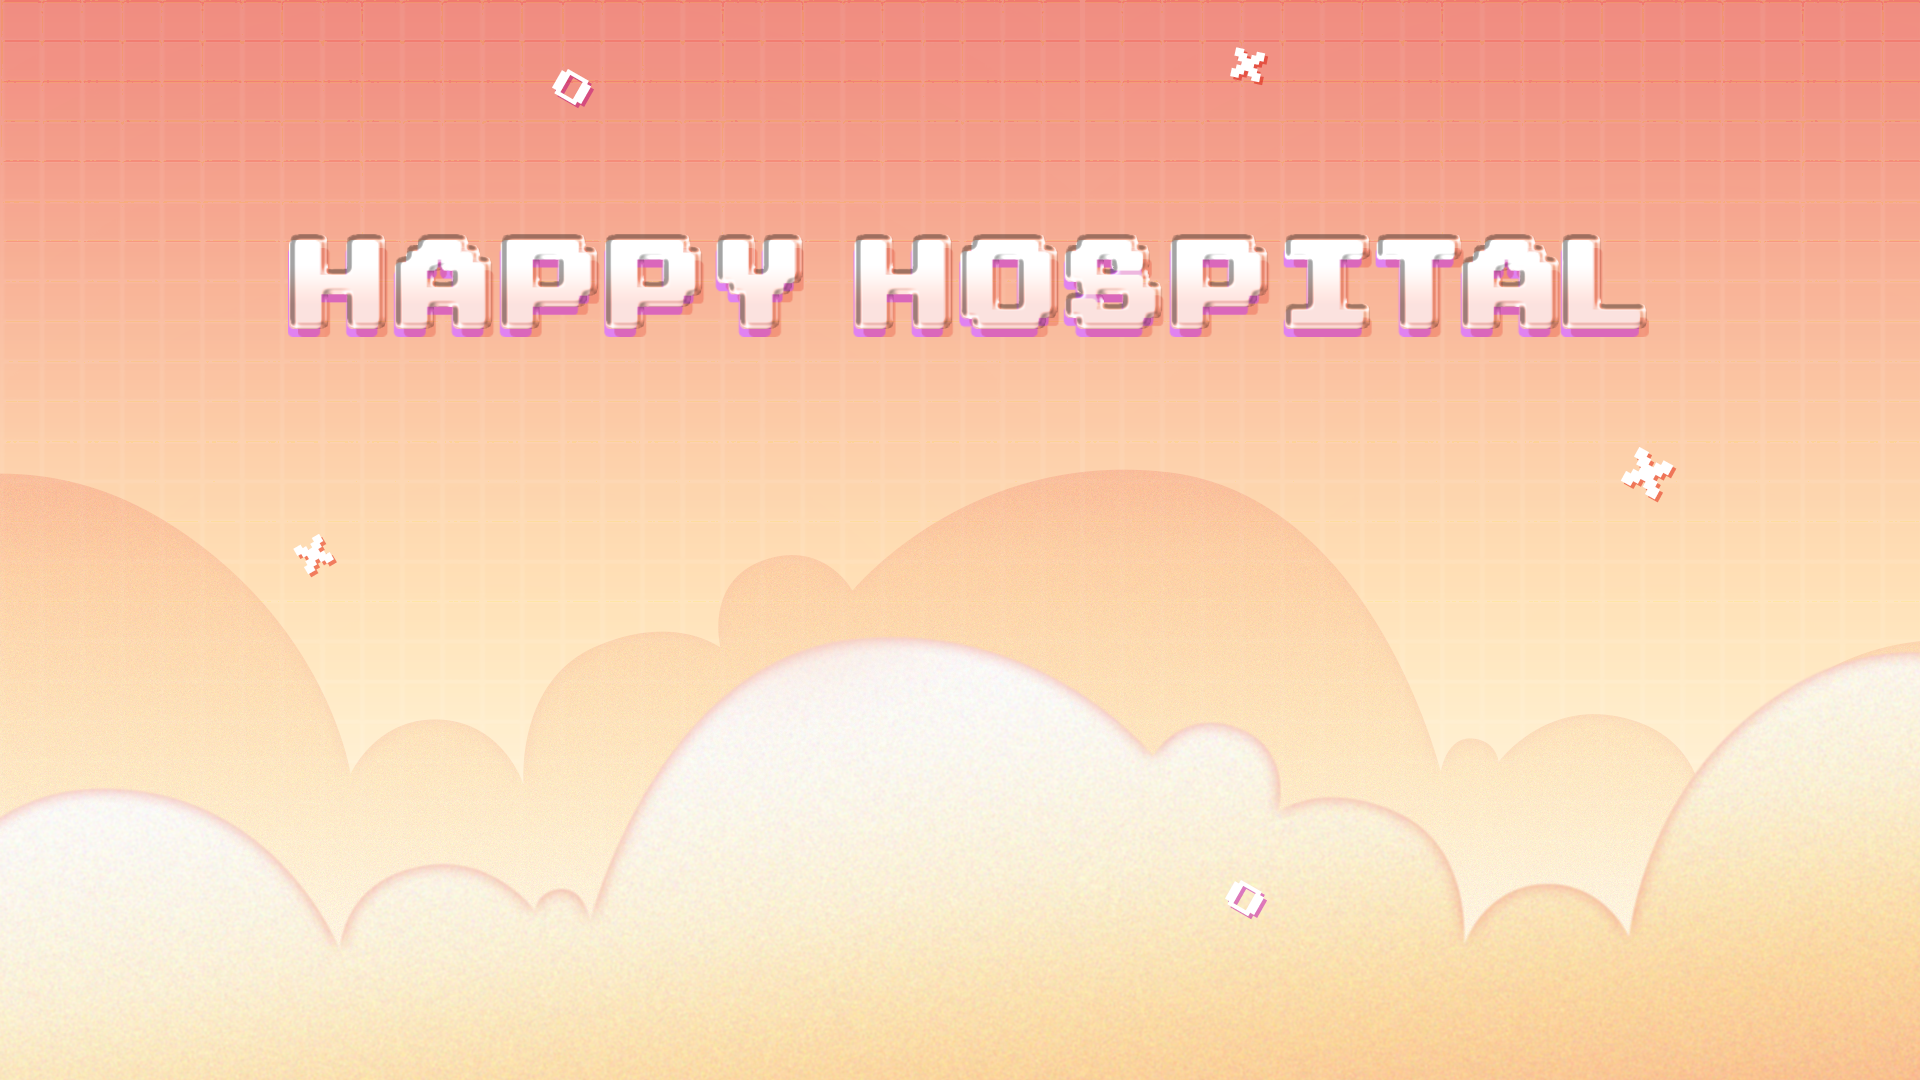
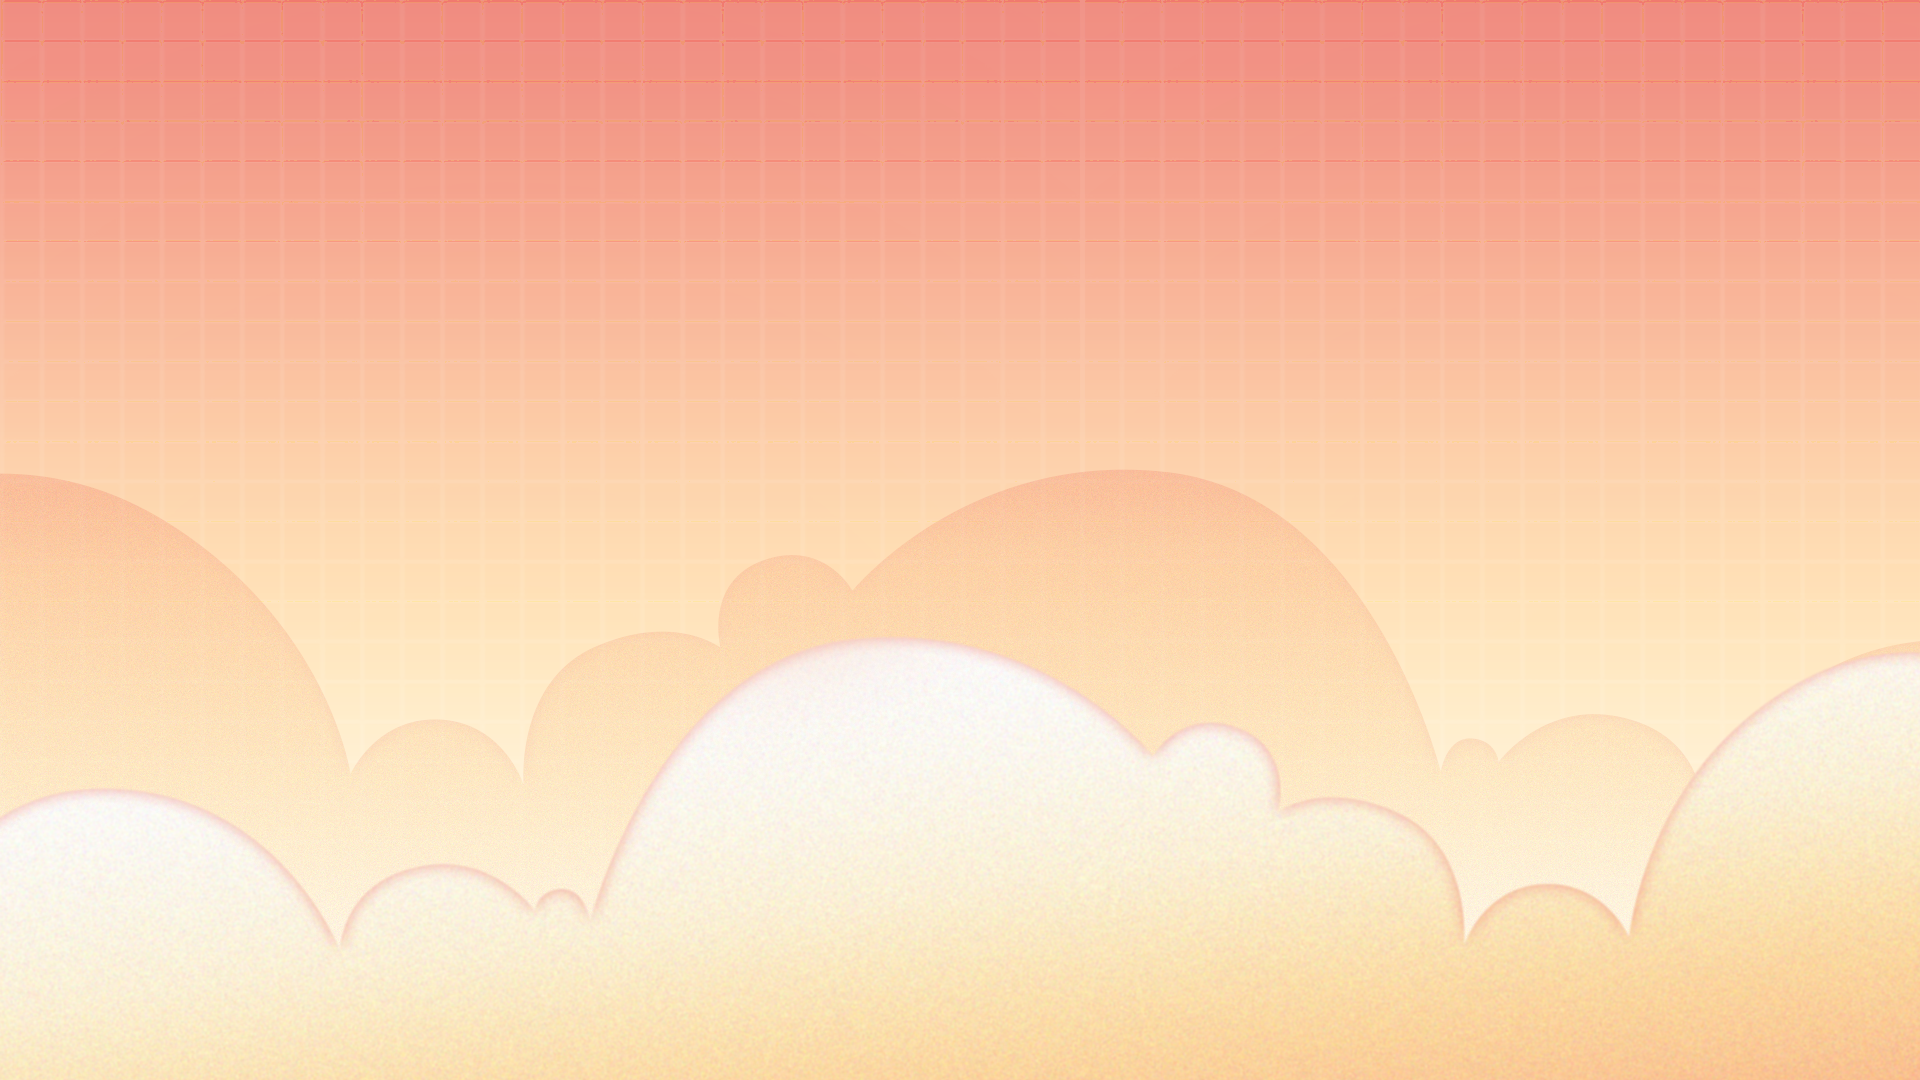
push

diff --git a/GetGo/src/scene/LoadGameScene.java b/GetGo/src/scene/LoadGameScene.java
@@ -1,0 +1,90 @@
+package scene;
+
+import javax.swing.ImageIcon;
+import javax.swing.JLabel;
+import javax.swing.JList;
+import javax.swing.JPanel;
+import javax.swing.JScrollPane;
+import javax.swing.event.ListSelectionEvent;
+import javax.swing.event.ListSelectionListener;
+
+import org.json.simple.parser.ParseException;
+
+import java.awt.Color;
+import java.awt.Graphics;
+import java.io.IOException;
+
+public class LoadGameScene extends JPanel {
+	public Container container;
+	
+	/**
+	 * Create the panel.
+	 * @throws IOException 
+	 */
+	public LoadGameScene(Container container) throws IOException {
+		this.container = container;
+		setLayout(null);
+		
+		
+		
+		setUp();
+//		repaint();
+	}
+
+	public void paintComponent(Graphics g){
+		super.paintComponent(g);
+		ImageIcon background = new ImageIcon("data/background.png");
+		g.drawImage(background.getImage(), 0, 0, this.getWidth(), this.getHeight(), null);
+	}
+	
+	public void setUp() throws IOException {
+		setBackground(Color.RED);
+		
+		String[] chill = new String[20];
+		chill[0] = "1";
+		chill[1] = "2";
+		chill[2] = "3";
+		chill[3] = "4";
+		chill[4] = "5";
+		chill[5] = "6";
+		chill[6] = "7";
+		chill[7] = "8";
+		chill[8] = "9";
+		chill[9] = "10";
+		chill[10] = "11";
+		chill[11] = "12";
+		chill[12] = "13";
+		chill[13] = "14";
+		chill[14] = "15";
+		chill[15] = "16";
+		chill[16] = "17";
+		chill[17] = "18";
+		//list.setBounds(179, 83, 92, 141);
+		//add(list);
+		
+		JList list = new JList(chill);
+		
+		JScrollPane jcp = new JScrollPane(list);
+		jcp.setBounds(590, 70, 90, 252);
+		add(jcp);
+		
+		list.addListSelectionListener(new ListSelectionListener() {
+
+			@Override
+			public void valueChanged(ListSelectionEvent e) {
+//				// TODO Auto-generated method stub
+				String select = (String) list.getSelectedValue();
+				switch(select){
+				case "1":
+				try {
+					container.showSinglePlayerScene();;
+				} catch (IOException | ParseException e1) {
+					// TODO Auto-generated catch block
+					e1.printStackTrace();
+					}
+				break;
+				}
+			}
+		});		
+	}
+}

diff --git a/GetGo/src/scene/PauseScene.java b/GetGo/src/scene/PauseScene.java
@@ -5,6 +5,8 @@ import javax.swing.JPanel;
 import org.json.simple.parser.ParseException;
 
 import java.awt.GridLayout;
+
+import javax.swing.ImageIcon;
 import javax.swing.JButton;
 import java.awt.GridBagLayout;
 import java.awt.GridBagConstraints;
@@ -13,6 +15,8 @@ import java.awt.event.ActionEvent;
 import java.awt.event.ActionListener;
 import java.io.IOException;
 import java.awt.FlowLayout;
+import java.awt.Graphics;
+
 import com.jgoodies.forms.layout.FormLayout;
 import com.jgoodies.forms.layout.ColumnSpec;
 import com.jgoodies.forms.layout.RowSpec;
@@ -34,6 +38,12 @@ public class PauseScene extends JPanel {
 		setUp();
 	}
 	
+	public void paintComponent(Graphics g){
+		super.paintComponent(g);
+		ImageIcon background = new ImageIcon("data/background.png");
+		g.drawImage(background.getImage(), 0, 0, this.getWidth(), this.getHeight(), null);
+	}
+	
 	public void setUp() {
 		JButton loadGame = new JButton();
 		loadGame.setBounds(96, 448, 344, 122);
@@ -49,7 +59,11 @@ public class PauseScene extends JPanel {
 		home.setBounds(989, 448, 344, 122);
 		add(home);
 		home.addActionListener(new BtnHome());
-
+		
+		JButton saveGame = new JButton();
+		saveGame.setBounds(541, 625, 344, 122);
+		add(saveGame);
+		saveGame.addActionListener(new BtnSaveGame());
 	}
 	
 	class BtnHome implements ActionListener {
@@ -64,7 +78,7 @@ public class PauseScene extends JPanel {
 		
 		@Override
 		public void actionPerformed(ActionEvent e) {
-			container.showMenuScene();
+			container.showLoadGameScene();
 		}
 	}
 	
@@ -89,6 +103,4 @@ public class PauseScene extends JPanel {
 			}
 		}
 	}
-	
-
 }

diff --git a/GetGo/src/scene/MenuScene.java b/GetGo/src/scene/MenuScene.java
@@ -51,7 +51,7 @@ public class MenuScene extends JPanel {
 	
 	public void paintComponent(Graphics g){
 		super.paintComponent(g);
-		ImageIcon background = new ImageIcon("data/background.png");
+		ImageIcon background = new ImageIcon("data/menuScene.png");
 		g.drawImage(background.getImage(), 0, 0, this.getWidth(), this.getHeight(), null);
 	}
 	
@@ -60,7 +60,7 @@ public class MenuScene extends JPanel {
 		setLayout(null);
 						
 		JPanel pnlNameInput = new JPanel();
-		pnlNameInput.setBounds(409, 230, 514, 151);
+		pnlNameInput.setBounds(542, 243, 514, 151);
 //		pnlNameInput.setForeground(Color.BLACK);
 		pnlNameInput.setBackground(new Color(1.0f, 1.0f, 1.0f, 0.0f));
 		add(pnlNameInput);
@@ -123,7 +123,11 @@ public class MenuScene extends JPanel {
 		add(howToPlayButton);
 		howToPlayButton.addActionListener(new BtnHowToPlay());
 		
-		
+		JButton credit = new JButton();
+		credit.setBackground(Color.WHITE);
+		credit.setBounds(802, 629, 550, 114);
+		add(credit);
+		credit.addActionListener(new BtnCredit());
 			
 	}
 
@@ -156,6 +160,13 @@ public class MenuScene extends JPanel {
 	}
 	
 	class BtnHowToPlay implements ActionListener {
+		
+		@Override
+		public void actionPerformed(ActionEvent e) {
+			container.showHowToPlayScene();
+		}
+	}
+	class BtnCredit implements ActionListener {
 		
 		@Override
 		public void actionPerformed(ActionEvent e) {

diff --git a/GetGo/src/scene/Container.java b/GetGo/src/scene/Container.java
@@ -22,6 +22,7 @@ public class Container extends JPanel {
 	private SinglePlayerScene singlePlayerScene;
 	private PauseScene pauseScene;
 	private HowToPlayScene howToPlayScene;
+	private LoadGameScene loadGameScene;
 	
 	private Client client;
 	
@@ -54,6 +55,8 @@ public class Container extends JPanel {
 		add(this.pauseScene, "pauseScene");
 		howToPlayScene = new HowToPlayScene(this);
 		add(this.howToPlayScene, "howToPlayScene");
+		loadGameScene = new LoadGameScene(this);
+		add(this.loadGameScene, "loadGameScene");
 		
 		showMenuScene();
 	}
@@ -106,6 +109,12 @@ public class Container extends JPanel {
 		cardLayout.show(this, "howToPlayScene");
 		howToPlayScene.setFocusable(true);
 		howToPlayScene.requestFocusInWindow();
+	}
+	
+	public void showLoadGameScene() {
+		cardLayout.show(this, "loadGameScene");
+		loadGameScene.setFocusable(true);
+		loadGameScene.requestFocusInWindow();
 	}
 
 	public Client getClient() {

diff --git a/GetGo/src/scene/CreditScene.java b/GetGo/src/scene/CreditScene.java
@@ -17,17 +17,20 @@ import java.awt.Graphics;
 import com.jgoodies.forms.layout.FormLayout;
 import com.jgoodies.forms.layout.ColumnSpec;
 import com.jgoodies.forms.layout.RowSpec;
+
+import scene.HowToPlayScene.BtnReturn;
+
 import com.jgoodies.forms.layout.FormSpecs;
 import javax.swing.JLabel;
 
-public class HowToPlayScene extends JPanel {
+public class CreditScene extends JPanel {
 	
 	public Container container;
 	/**
 	 * Create the panel.
 	 */
 	
-	public HowToPlayScene(Container container) {
+	public CreditScene(Container container) {
 		this.container = container;
 		setLayout(null);
 		
